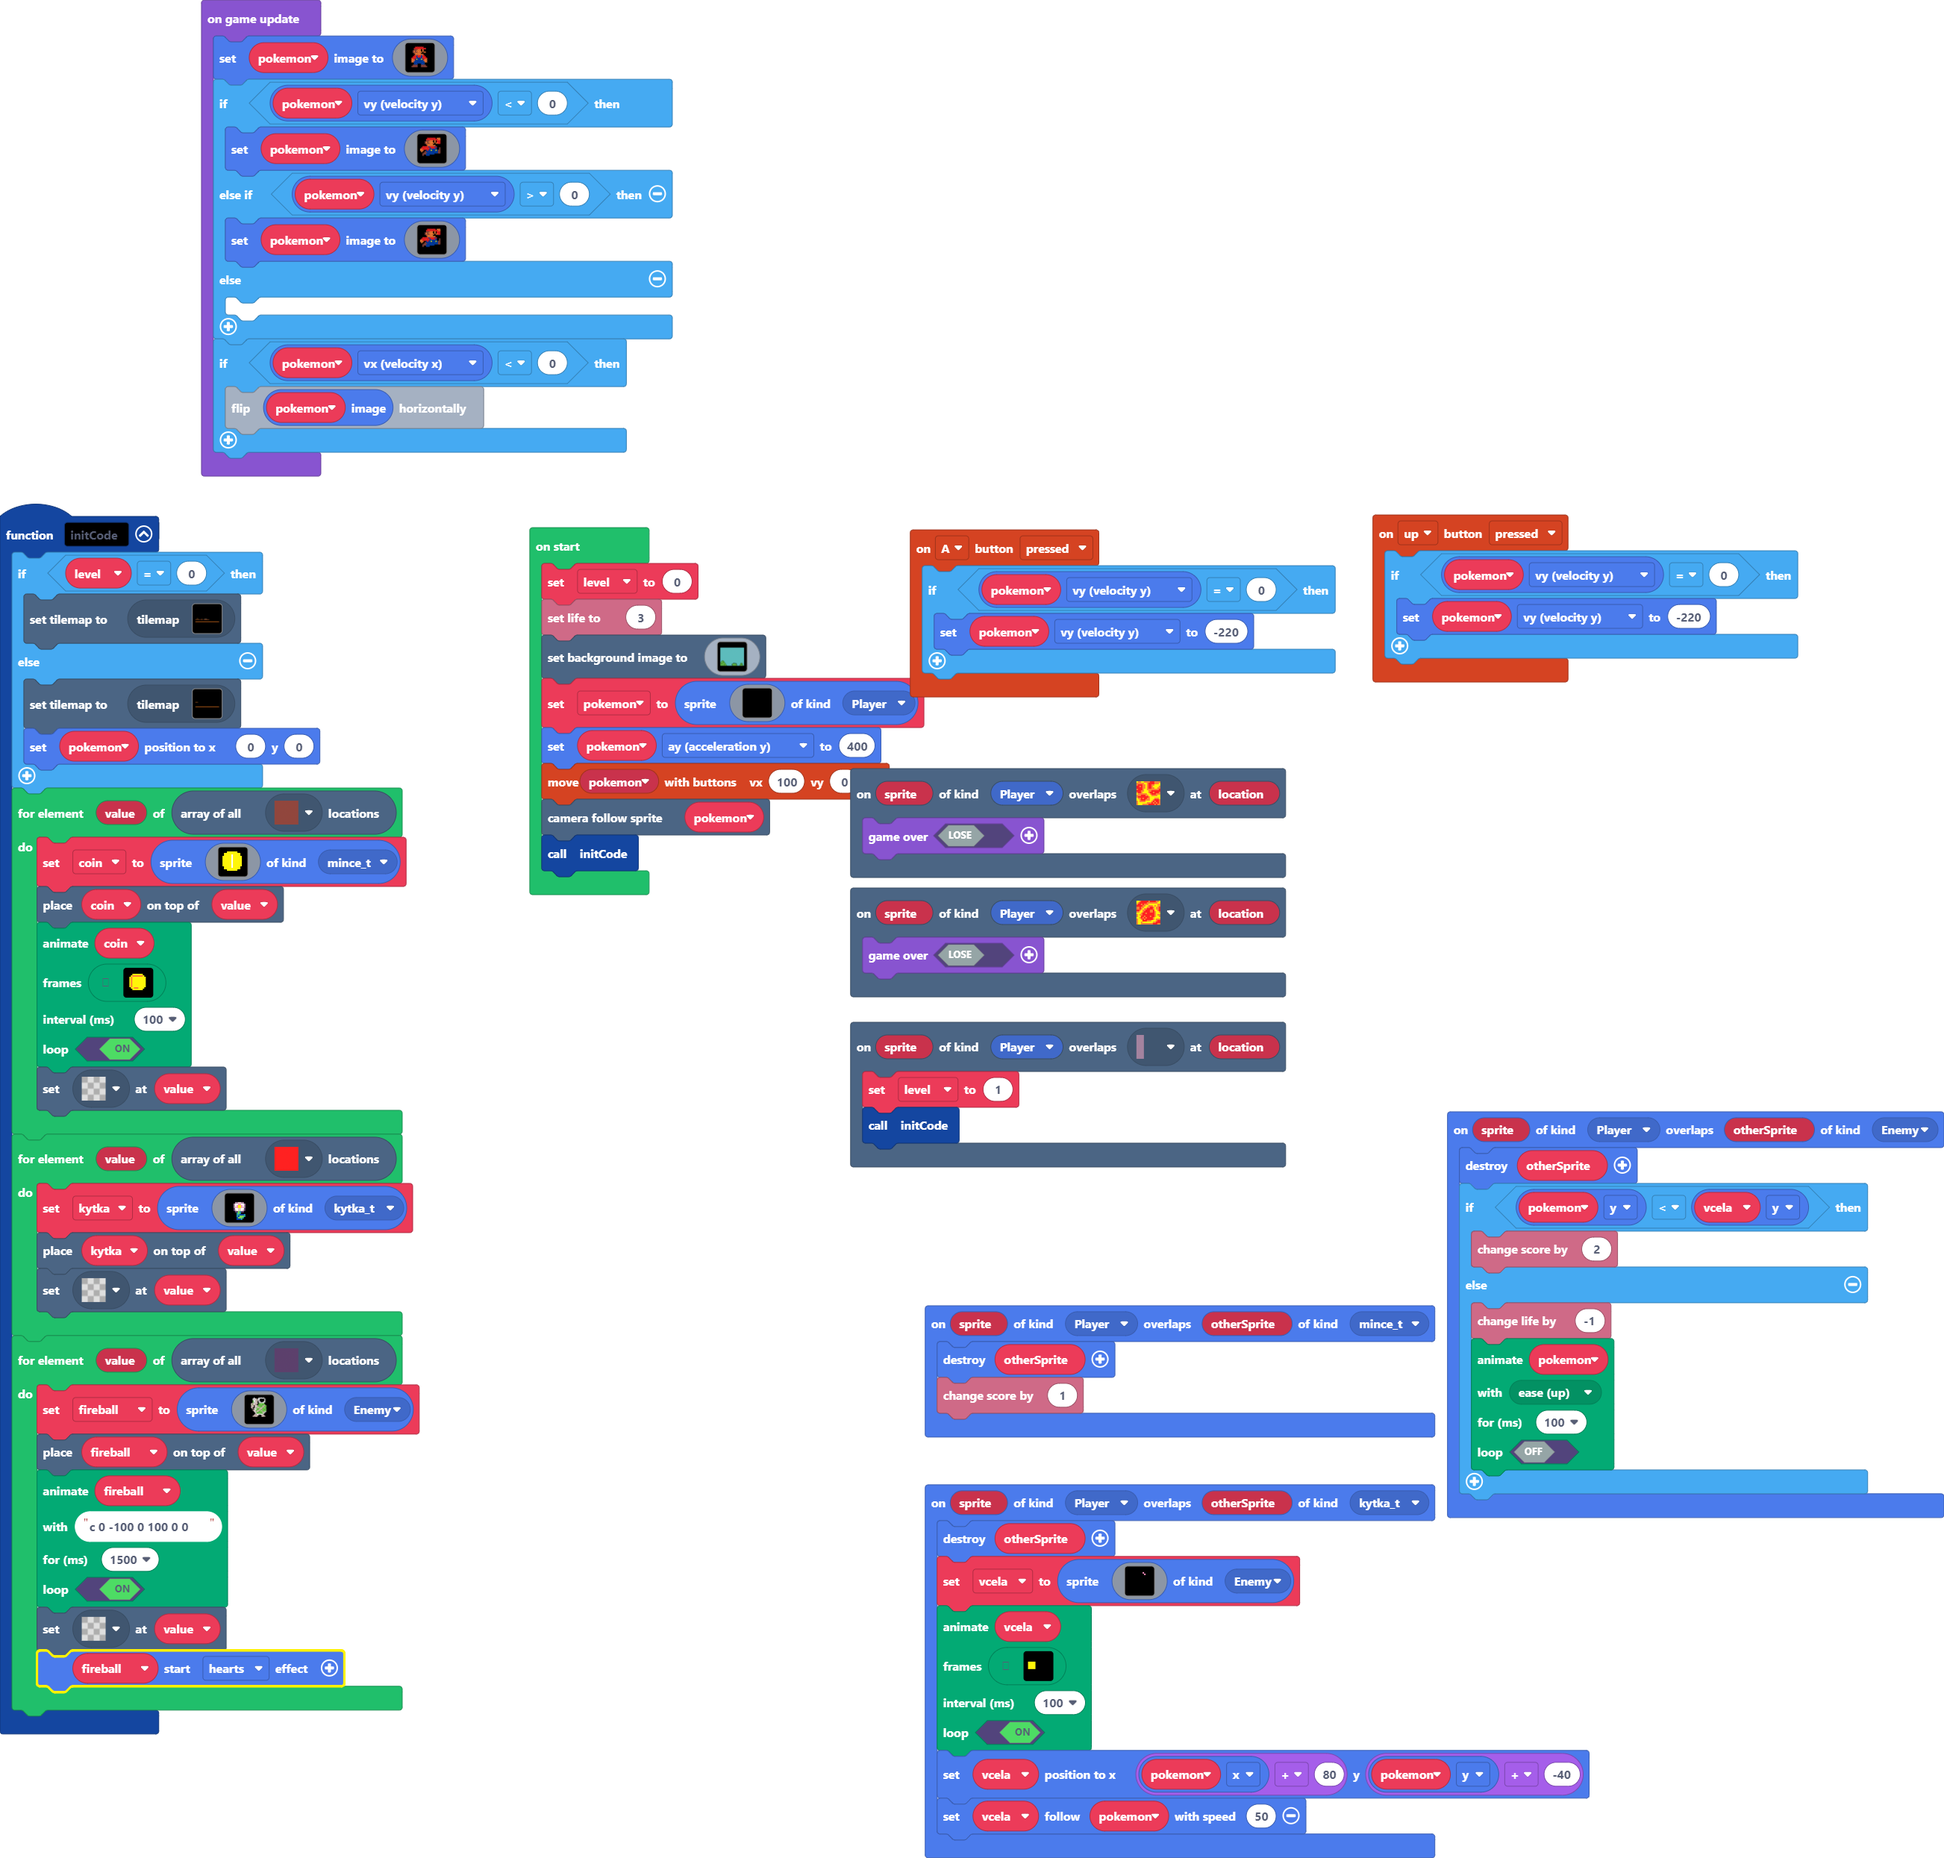
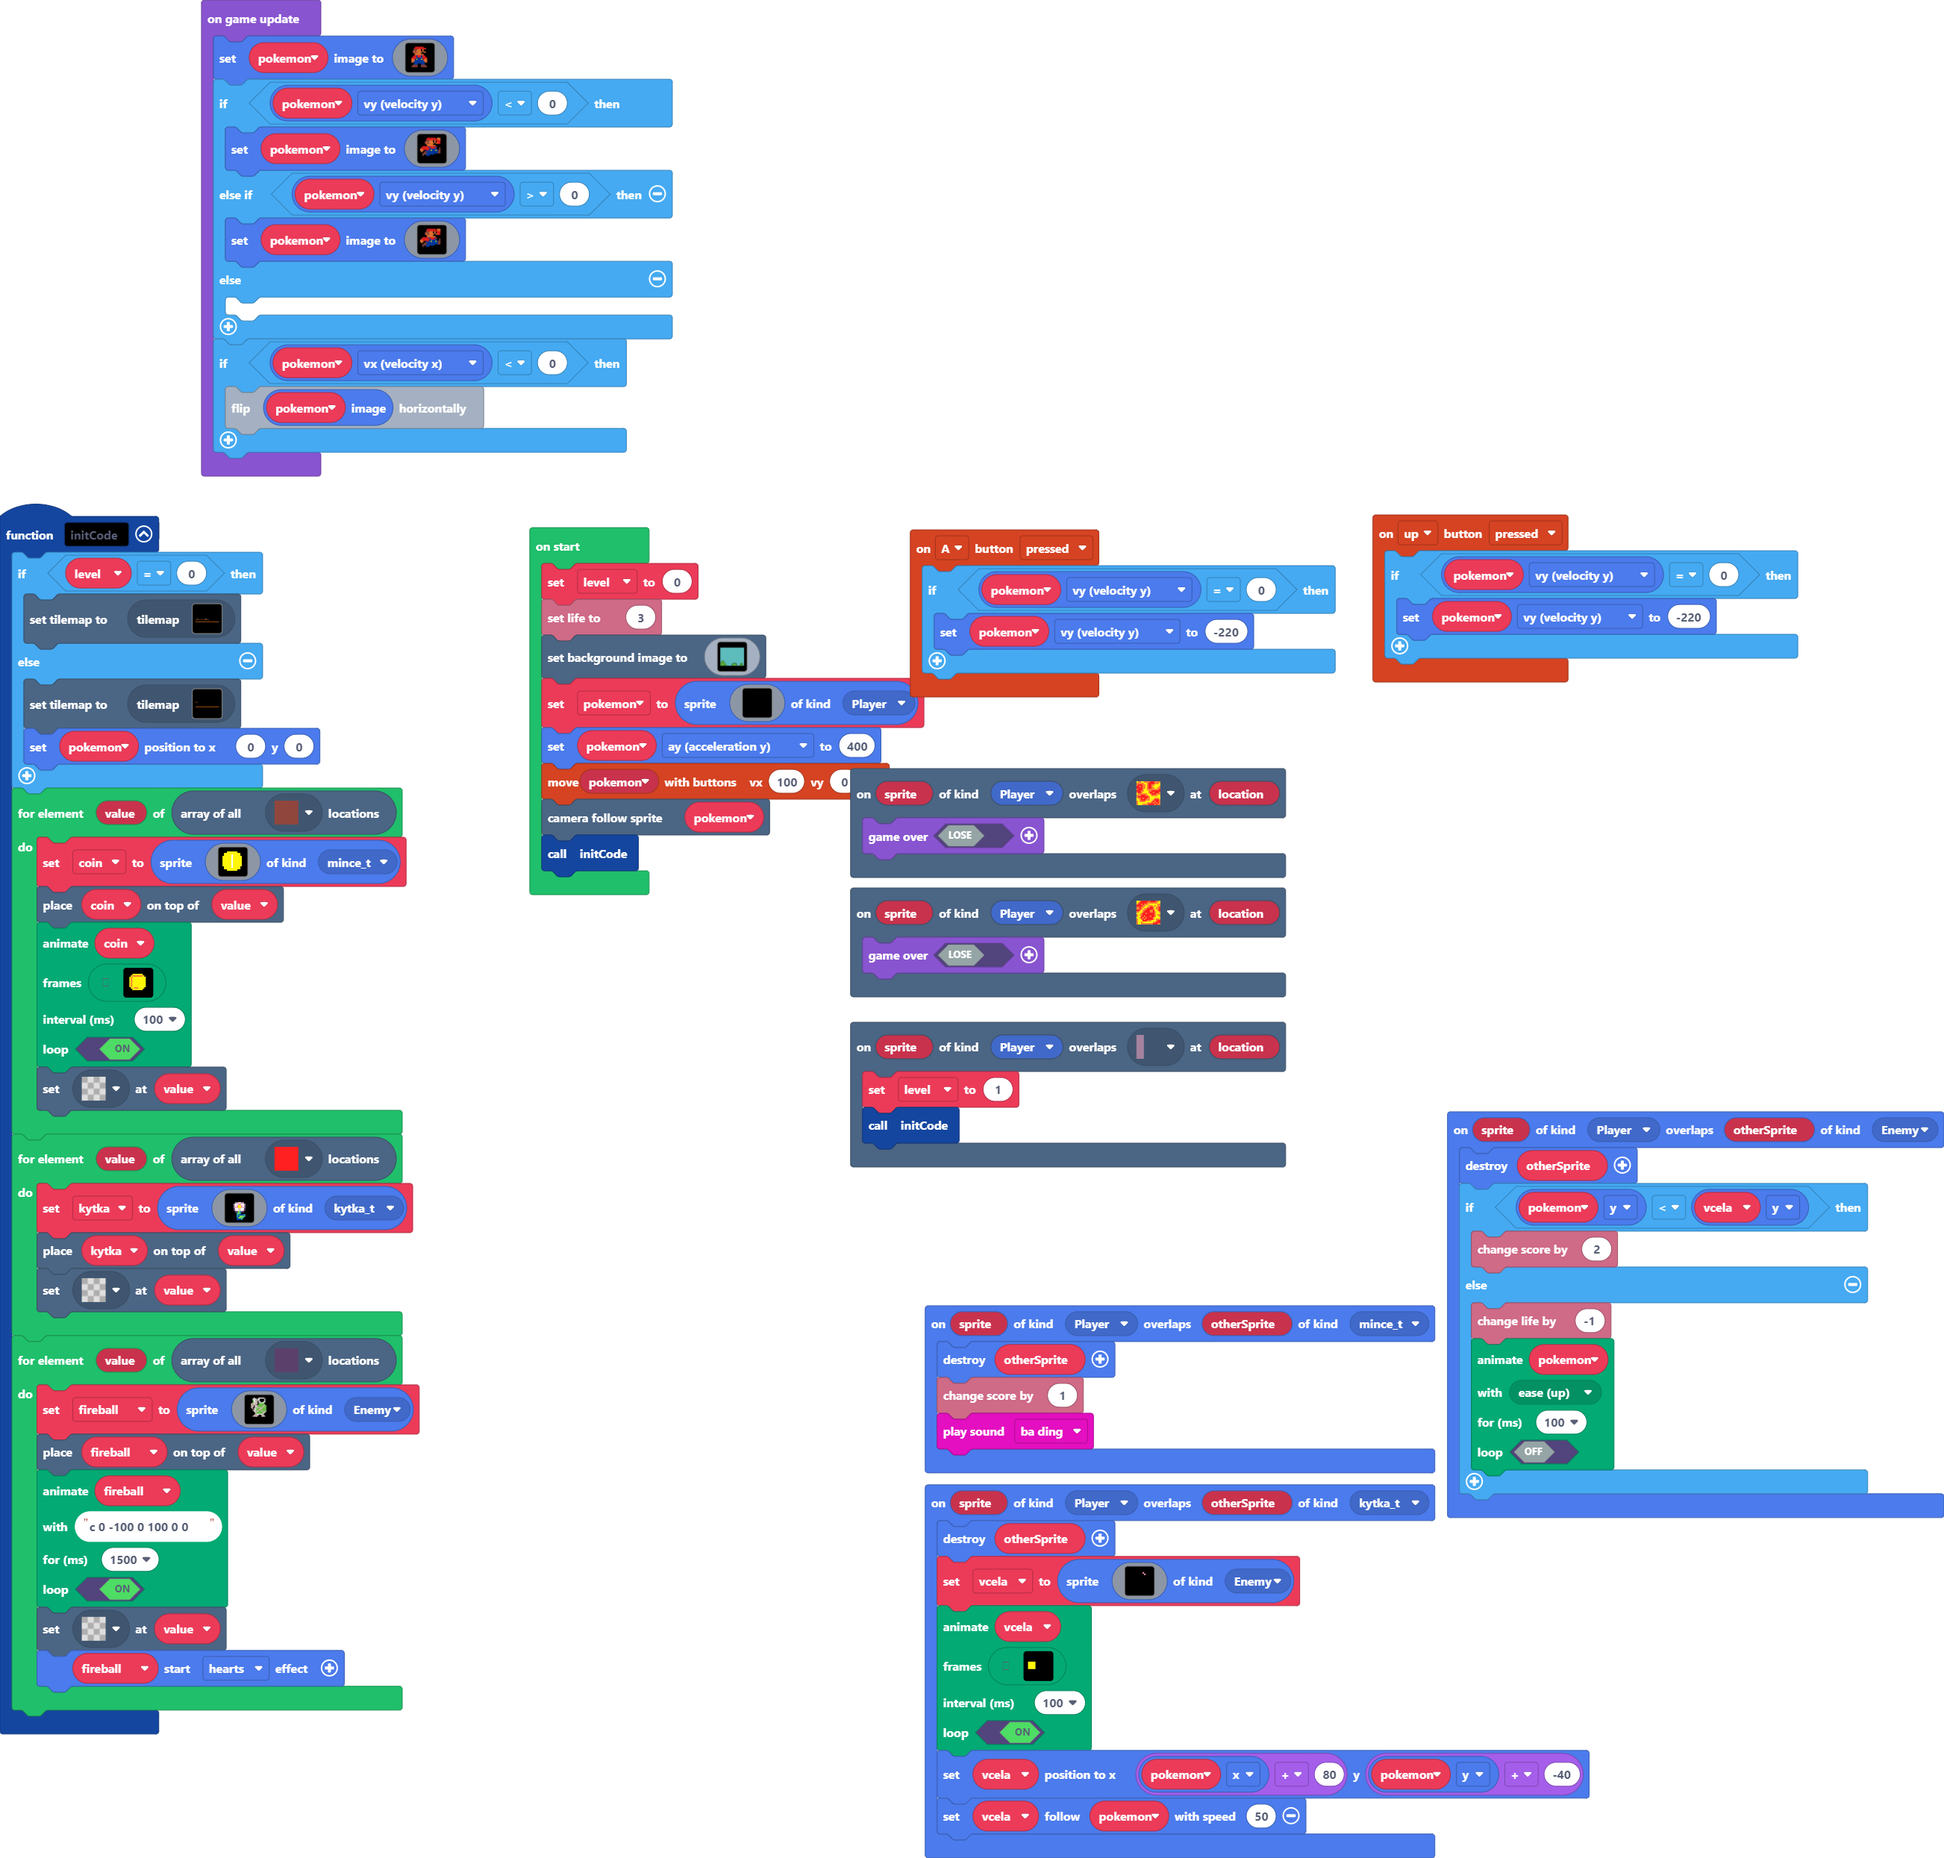
Update pxt.json, main.blocks, main.ts

Changed region(s): [[0.4664, 0.7422, 0.7463, 0.804]]

diff --git a/main.ts b/main.ts
@@ -5,6 +5,7 @@ namespace SpriteKind {
 sprites.onOverlap(SpriteKind.Player, SpriteKind.mince_t, function (sprite, otherSprite) {
     otherSprite.destroy()
     info.changeScoreBy(1)
+    music.baDing.play()
 })
 scene.onOverlapTile(SpriteKind.Player, assets.tile`myTile1`, function (sprite, location) {
     level = 1
